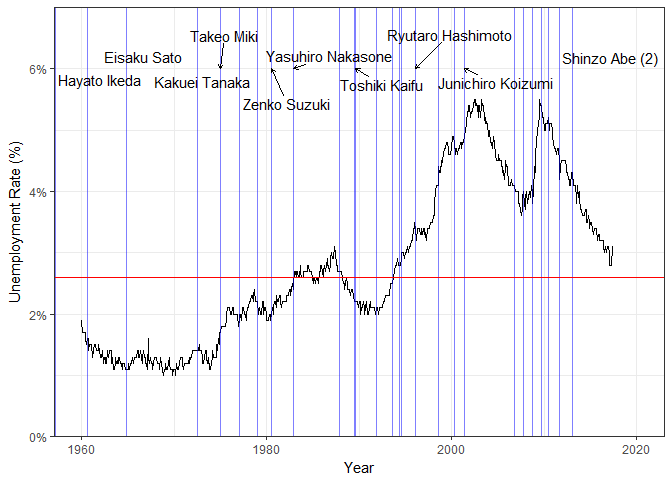
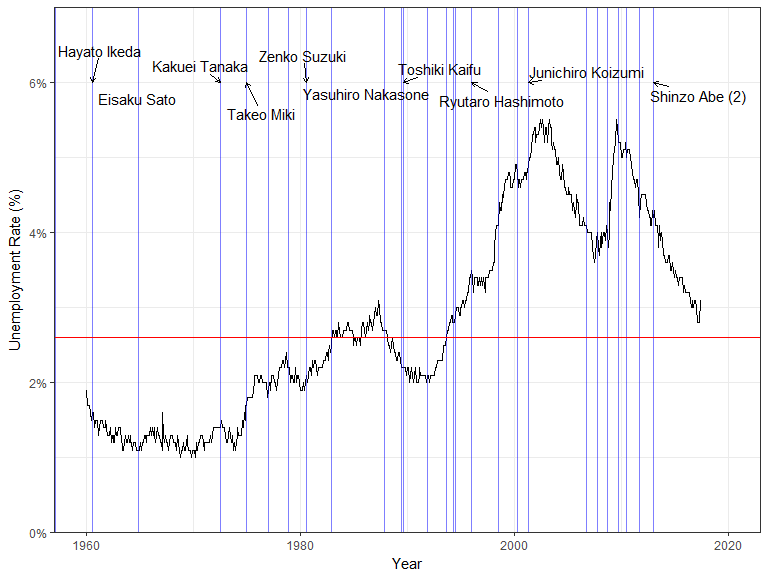
edit japan PM

Changed region(s): [[0.0, 0.0, 1.0, 0.9688], [0.5, 0.9688, 0.5625, 1.0]]

diff --git a/japan_pm.md b/japan_pm.md
@@ -1,15 +1,15 @@
 Simple graphing with ggplot2.
 -----------------------------
 
-I was flipping through Hadley Wickham's *ggplot2* book the other day when I came across this:
+I was flipping through Hadley Wickham's *ggplot2* book the other day when I came across this (I added axis labels and title for clarity):
 
 ![](japan_pm_files/figure-markdown_github/hadleys-plot-1.png)
 
 Which shows the unemployment data for the USA from 1967 to 2015 along with the Presidents in power during those periods (and their respective political parties). A very simple but poignant graph that (with added historical narrative) can tell us a lot about different stories about the US economy and the politics driving them! Motivated by this I set out to make a similar graph but with data from my birth country, Japan.
 
-For the unemployment data, I was able to download a dataset from the [Federal Reserve Bank of St. Louis](https://fred.stlouisfed.org/series/LRHUTTTTJPM156S) website. It's a really fantastic source with loads of raw data from around the world that you can download (in Excel, .csv, .png, PowerPoint, and .pdf formats), I will definitely be coming back here for other articles! This dataset comprises of the harmonized monthly unemployment rate for ALL person for Japan. There was another dataset for Aged 15-64 however that one only went back to January of 1970. I wanted to go back to 1960 (or better 1945) for a better look at Japan's post-war economic history and recovery so I went with this one instead. For a more in-depth analysis I would hunt down some Japanese sources but for today we are just focusing on the simple **ggplot2** graph.
+For the unemployment data, I was able to download a dataset from the [Federal Reserve Bank of St. Louis](https://fred.stlouisfed.org/series/LRHUTTTTJPM156S) website. It's a really fantastic source with loads of raw data from around the world that you can download (in Excel, .csv, .png, PowerPoint, and .pdf formats), I will definitely be coming back here for other articles! This dataset comprises of the harmonized monthly unemployment rate for ALL persons in Japan. There was another dataset for Aged 15-64 however that one only went back to January of 1970. I wanted to go back to 1960 (or better 1945) for a better look at Japan's post-war history and economic recovery so I went with this one instead. For a more in-depth analysis I would hunt down some Japanese sources but for today we are just focusing on the simple **ggplot2** graph.
 
-For the dataset about the Prime Ministers of Japan I went to Wikipedia, a source that's pretty reliable and easy to use. Normally, I would web-scrape the information using **rvest** however, I did not know how to scrap multiple tables at once (as the Prime Ministers were divided into individual tables according to the reigning Emperor) so I created it manually. Thankfully this didn't take too long!
+For the dataset about the Prime Ministers of Japan I went to Wikipedia, a source that's pretty reliable and easy to use. Normally, I would web-scrape the information using the **rvest** package however, I did not know how to scrap multiple tables at once (as the Prime Ministers were divided into individual tables according to the reigning Emperor) so I created it manually. Thankfully this didn't take too long!
 
 ``` r
 prime_ministers <- data.frame(
@@ -40,11 +40,11 @@ prime_ministers <- data.frame(
 )
 ```
 
-With that out of the way we can load the unemployment data set and set about tidying out the raw data.
+With that out of the way we can load the unemployment data set and set about tidying the raw data.
 
 ``` r
 # load data ---------------------------------------------------------------
-japan_unemploy <- read.csv("~/R_materials/Misc.ProjectsTutorials/japan_pm/LRUNTTTTJPM156S.csv", 
+japan_unemploy <- read.csv("~/R_materials/japan_pm/LRUNTTTTJPM156S.csv", 
                            header = TRUE, stringsAsFactors = FALSE)
 library(tibble)
 glimpse(japan_unemploy)   # glimpse() is similar to using str() but tidier
@@ -55,7 +55,7 @@ glimpse(japan_unemploy)   # glimpse() is similar to using str() but tidier
     ## $ DATE            <chr> "1960-01-01", "1960-02-01", "1960-03-01", "196...
     ## $ LRUNTTTTJPM156S <dbl> 1.9, 1.7, 1.7, 1.7, 1.7, 1.6, 1.5, 1.6, 1.6, 1...
 
-We can see here that the dates are in character format and that the column names are in all caps. We can convert the dates using the `as.Date()` function included in base R and change the column names to lower case using the `str_lower()` function from the **stringr** package:
+We can see here that the dates are in **character** format and that the column names are in all caps. We can convert the dates using the `as.Date()` function included in base R and change the column names to lower case using the `str_lower()` function from the **stringr** package:
 
 ``` r
 library(stringr)
@@ -133,7 +133,7 @@ japan_unemploy %>%
   theme_bw()
 ```
 
-![](japan_pm_files/figure-markdown_github/first-plot-1.png)
+<img src="japan_pm_files/figure-markdown_github/first-plot-1.png" style="display: block; margin: auto;" />
 
 Looking at this graph, even with using `geom_text_repel()` there are too many Prime Ministers for it to look nice. This speaks for the highly turbulent "revolving door" of politics in Japan, especially in times of economic downturns such as in the 1990s and early 2000s (although many were caught in unrelated scandals or other kerfluffles too...).
 
@@ -187,7 +187,7 @@ japan_unemploy %>%
   theme_bw()
 ```
 
-![](japan_pm_files/figure-markdown_github/plot-again-1.png)
+<img src="japan_pm_files/figure-markdown_github/plot-again-1.png" style="display: block; margin: auto;" />
 
 Much better! I wanted to fill in the spaces of the terms with the political parties, however, most of the Prime Ministers came from the Liberal Democratic Party or LDP (Jimintō in Japanese) which dominated Japanese politics from 1955 to all the way to 1993! Also with so many segments of PMs it wouldn't look as pretty as Hadley's graph.
 
